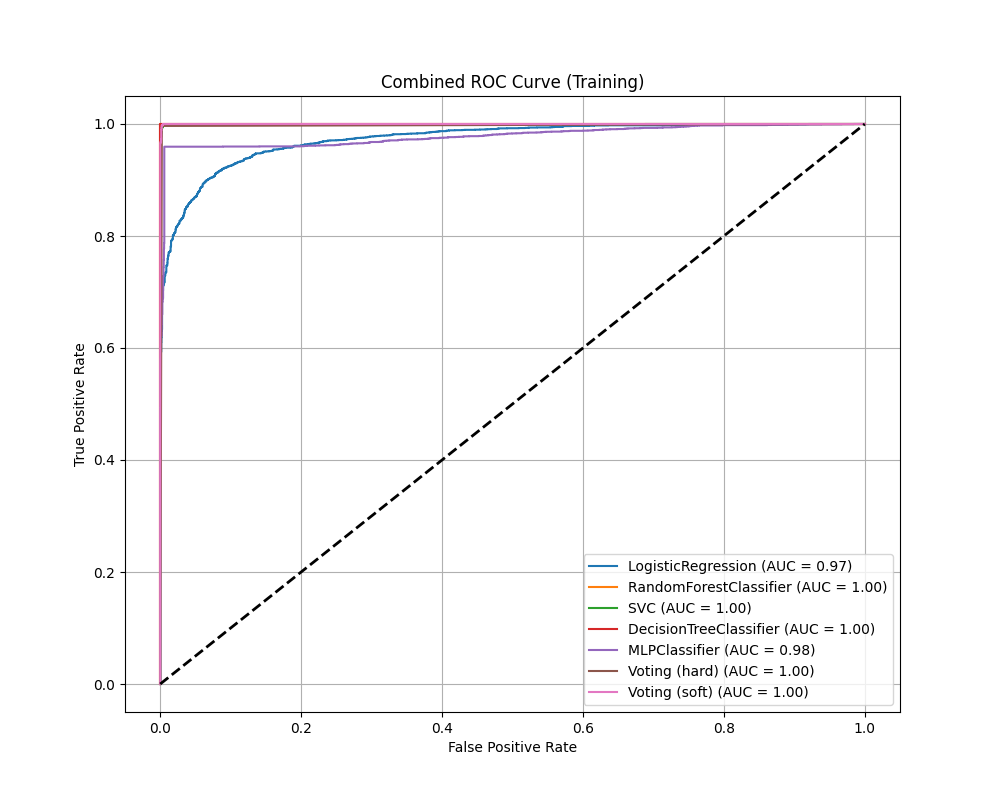
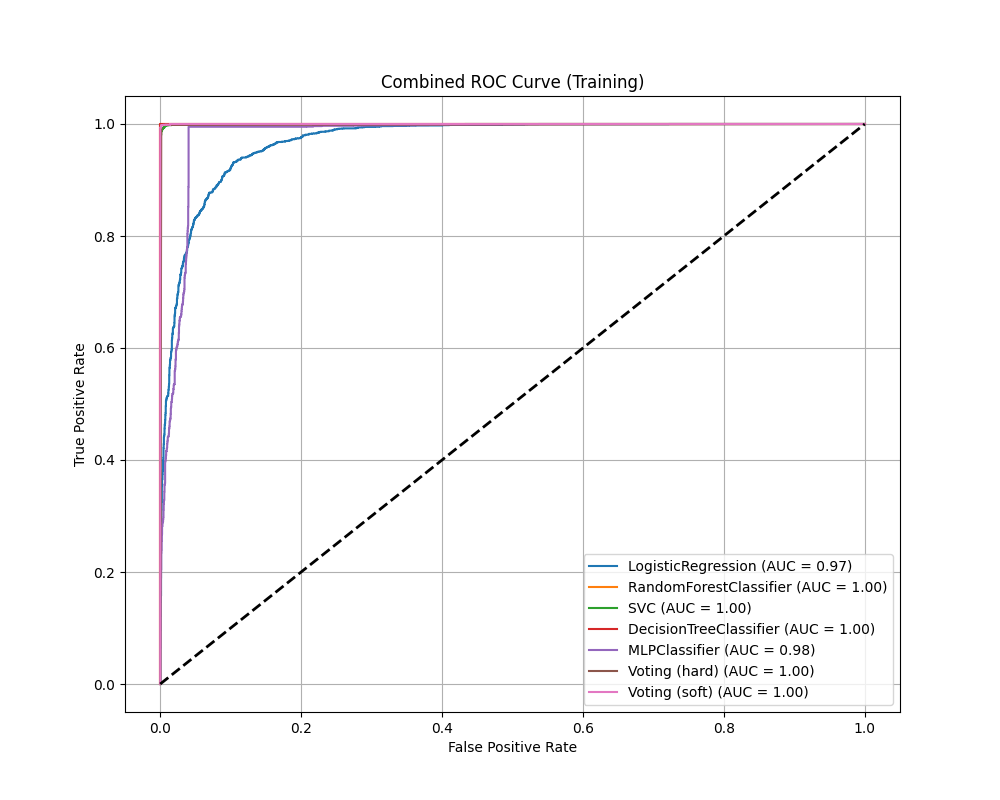
updated plots

Changed region(s): [[0.155, 0.1562, 0.682, 0.6562]]

diff --git a/SVM_v2/ensemble_model.py b/SVM_v2/ensemble_model.py
@@ -15,7 +15,7 @@ from sklearn.tree import DecisionTreeClassifier
 from sklearn.neural_network import MLPClassifier
 from sklearn.metrics import accuracy_score, f1_score, roc_auc_score, precision_score, recall_score
 import csv
-from model_performance_v2 import ModelPerformance, plot_combined_roc_curves, plot_combined_precision_recall_curves, plot_combined_performance_bar_plots,plot_lift_gain_curves
+from model_performance_v2 import ModelPerformance#, plot_combined_roc_curves, plot_combined_precision_recall_curves, plot_combined_performance_bar_plots,plot_lift_gain_curves
 import os
 
 # Random seed for reproducibility
@@ -176,9 +176,6 @@ def process_and_train(data, columns_to_drop, class_imb, results):
     # Split the data into features and target
     unseen_features, unseen_labels, cleaned_df, features, target = sample_and_update_data(cleaned_df)
     
-    # Encode the target variable
-    label_encoder = LabelEncoder()
-    target = label_encoder.fit_transform(target)
 
     # Split the data into train & test
     X_train, X_test, y_train, y_test = train_test_split(
@@ -196,8 +193,8 @@ def process_and_train(data, columns_to_drop, class_imb, results):
     log_reg_H = LogisticRegression(max_iter=1400)
     dt_H = DecisionTreeClassifier(criterion='entropy', max_depth=42)
     nn_H = MLPClassifier(activation='tanh', alpha=0.01, hidden_layer_sizes=(15, 10, 1), learning_rate='invscaling', max_iter=1000, solver='adam')
-    svm_H = SVC(C=0.1, kernel='poly', degree=3, gamma=0.1, probability=True)
-    svm_soft_H = SVC(C=0.1, kernel='poly', degree=3, gamma=0.1, probability=True)  # For soft voting
+    svm_H = SVC(C=0.1, kernel='poly', degree=3, gamma=0.1, probability=True, class_weight='balanced')  # For hard voting
+    svm_soft_H = SVC(C=0.1, kernel='poly', degree=3, gamma=0.1, probability=True ,class_weight='balanced')  # For soft voting
     rf_H = RandomForestClassifier(n_estimators=1000, random_state=37, n_jobs=-1, class_weight='balanced')
 
     # Hard voting
@@ -235,38 +232,38 @@ def process_and_train(data, columns_to_drop, class_imb, results):
     #     results
     # )
 
-       # Generate combined ROC curves for hard voting classifiers
-    plot_combined_roc_curves(
-        fitted_classifiers, #include only the soft voting classifier from the second list
-        X_train,
-        y_train,
-        X_test,
-        y_test,
-        f"roc_{class_imb}"
-    )
+    #    # Generate combined ROC curves for hard voting classifiers
+    # plot_combined_roc_curves(
+    #     fitted_classifiers, #include only the soft voting classifier from the second list
+    #     X_train,
+    #     y_train,
+    #     X_test,
+    #     y_test,
+    #     f"roc_{class_imb}"
+    # )
 
-    plot_combined_precision_recall_curves(
-        fitted_classifiers, #include only the soft voting classifier from the second list
-        X_test,
-        y_test,
-        f"pr_{class_imb}"
-    )
+    # plot_combined_precision_recall_curves(
+    #     fitted_classifiers, #include only the soft voting classifier from the second list
+    #     X_test,
+    #     y_test,
+    #     f"pr_{class_imb}"
+    # )
     
-    plot_combined_performance_bar_plots(
-        fitted_classifiers, 
-        X_train,
-        y_train,
-        X_test,
-        y_test,
-        f"bar_{class_imb}"
-    )
+    # plot_combined_performance_bar_plots(
+    #     fitted_classifiers, 
+    #     X_train,
+    #     y_train,
+    #     X_test,
+    #     y_test,
+    #     f"bar_{class_imb}"
+    # )
 
-    plot_lift_gain_curves(
-        fitted_classifiers, 
-        X_test,
-        y_test,
-        f"lg_{class_imb}"
-    )
+    # plot_lift_gain_curves(
+    #     fitted_classifiers, 
+    #     X_test,
+    #     y_test,
+    #     f"lg_{class_imb}"
+    # )
     
 
 # ===================== MAIN EXECUTION =====================
@@ -274,7 +271,7 @@ def process_and_train(data, columns_to_drop, class_imb, results):
 results = []
 
 # Process and train for each class imbalance method
-class_imbalance_methods = ["oversampling"]
+class_imbalance_methods = ["oversampling", "undersampling", "original"]
 
 for method in class_imbalance_methods:
     process_and_train(data_ksi, columns_to_drop, class_imb=method, results=results)

diff --git a/SVM_v2/data_preprocessor.py b/SVM_v2/data_preprocessor.py
@@ -193,12 +193,13 @@ def sample_and_update_data(cleaned_df):
 
     cleaned_df = cleaned_df.drop(cleaned_df.index[-10:])
 
-    # Encode the target variable
-    label_encoder = LabelEncoder()
-    target = label_encoder.fit_transform(target)
+    # Manually encode the target variable
+    target_mapping = {'Non-Fatal Injury': 0, 'Fatal': 1}
 
-    # Encode unseen labels
-    unseen_labels = label_encoder.transform(unseen_labels)
+    # Apply the mapping to the target and unseen_labels
+    target = target.map(target_mapping)
+    unseen_labels = unseen_labels.map(target_mapping)
+
 
     return unseen_features, unseen_labels, cleaned_df, features, target
 
